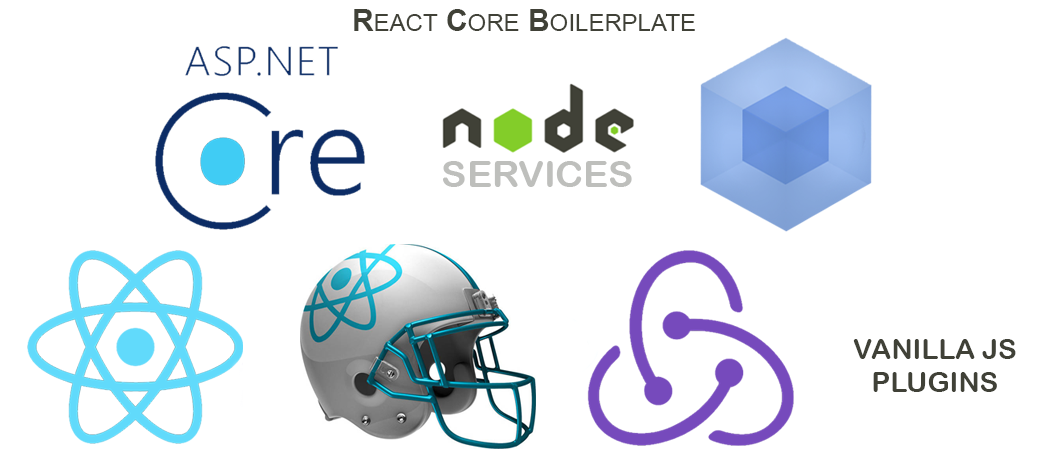
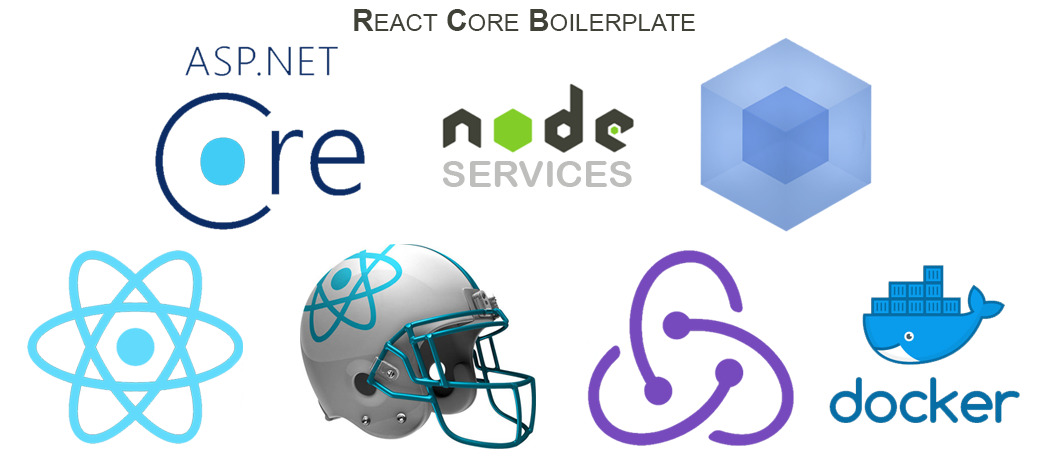
Added docker support

Changed region(s): [[0.7894, 0.5636, 0.9715, 0.9195]]

diff --git a/RCB.JavaScript/download.js b/RCB.JavaScript/download.js
@@ -1,0 +1,52 @@
+// This module allows you to download file using args --uri=[URI] --path=[FILEPATH]
+
+var args = process.argv.slice(2).map(arg => {
+
+    var splitted = arg.toLowerCase().split("=");
+    if (splitted.length < 2) {
+        return;
+    }
+
+    var key = splitted[0].replace(/\-/g, "");
+    var value = splitted[1];
+
+    return { key, value };
+});
+
+var fs = require('fs'),
+    request = require('request');
+
+var download = function (uri, path) {
+
+    request.head(uri, function (err, res, body) {
+
+        var splitted = path.split("/");
+
+        var dirsToCreate = splitted.slice(0, splitted.length - 1);
+
+        console.log(dirsToCreate.join("/"));
+
+        fs.mkdir(dirsToCreate.join("/"), { recursive: true }, function () { });
+
+        console.log("Downloading file '" + uri + "' to path " + "'" + path + "'...");
+
+        request(uri)
+            .pipe(fs.createWriteStream(path))
+            .on('close', function () { console.log("Download complete."); });
+    });
+
+};
+
+args.forEach((keyValuePair, index) => {
+    switch (keyValuePair.key) {
+        case "uri":
+            var uri = keyValuePair.value;
+            var path = args[index + 1].value;
+            if (path) {
+                if (!fs.existsSync(path)) {
+                    download(uri, path);
+                }
+            }
+            break;
+    }
+});

diff --git a/RCB.TypeScript/download.js b/RCB.TypeScript/download.js
@@ -1,0 +1,52 @@
+// This module allows you to download file using args --uri=[URI] --path=[FILEPATH]
+
+var args = process.argv.slice(2).map(arg => {
+
+    var splitted = arg.toLowerCase().split("=");
+    if (splitted.length < 2) {
+        return;
+    }
+
+    var key = splitted[0].replace(/\-/g, "");
+    var value = splitted[1];
+
+    return { key, value };
+});
+
+var fs = require('fs'),
+    request = require('request');
+
+var download = function (uri, path) {
+
+    request.head(uri, function (err, res, body) {
+
+        var splitted = path.split("/");
+
+        var dirsToCreate = splitted.slice(0, splitted.length - 1);
+
+        console.log(dirsToCreate.join("/"));
+
+        fs.mkdir(dirsToCreate.join("/"), { recursive: true }, function () { });
+
+        console.log("Downloading file '" + uri + "' to path " + "'" + path + "'...");
+
+        request(uri)
+            .pipe(fs.createWriteStream(path))
+            .on('close', function () { console.log("Download complete."); });
+    });
+
+};
+
+args.forEach((keyValuePair, index) => {
+    switch (keyValuePair.key) {
+        case "uri":
+            var uri = keyValuePair.value;
+            var path = args[index + 1].value;
+            if (path) {
+                if (!fs.existsSync(path)) {
+                    download(uri, path);
+                }
+            }
+            break;
+    }
+});
